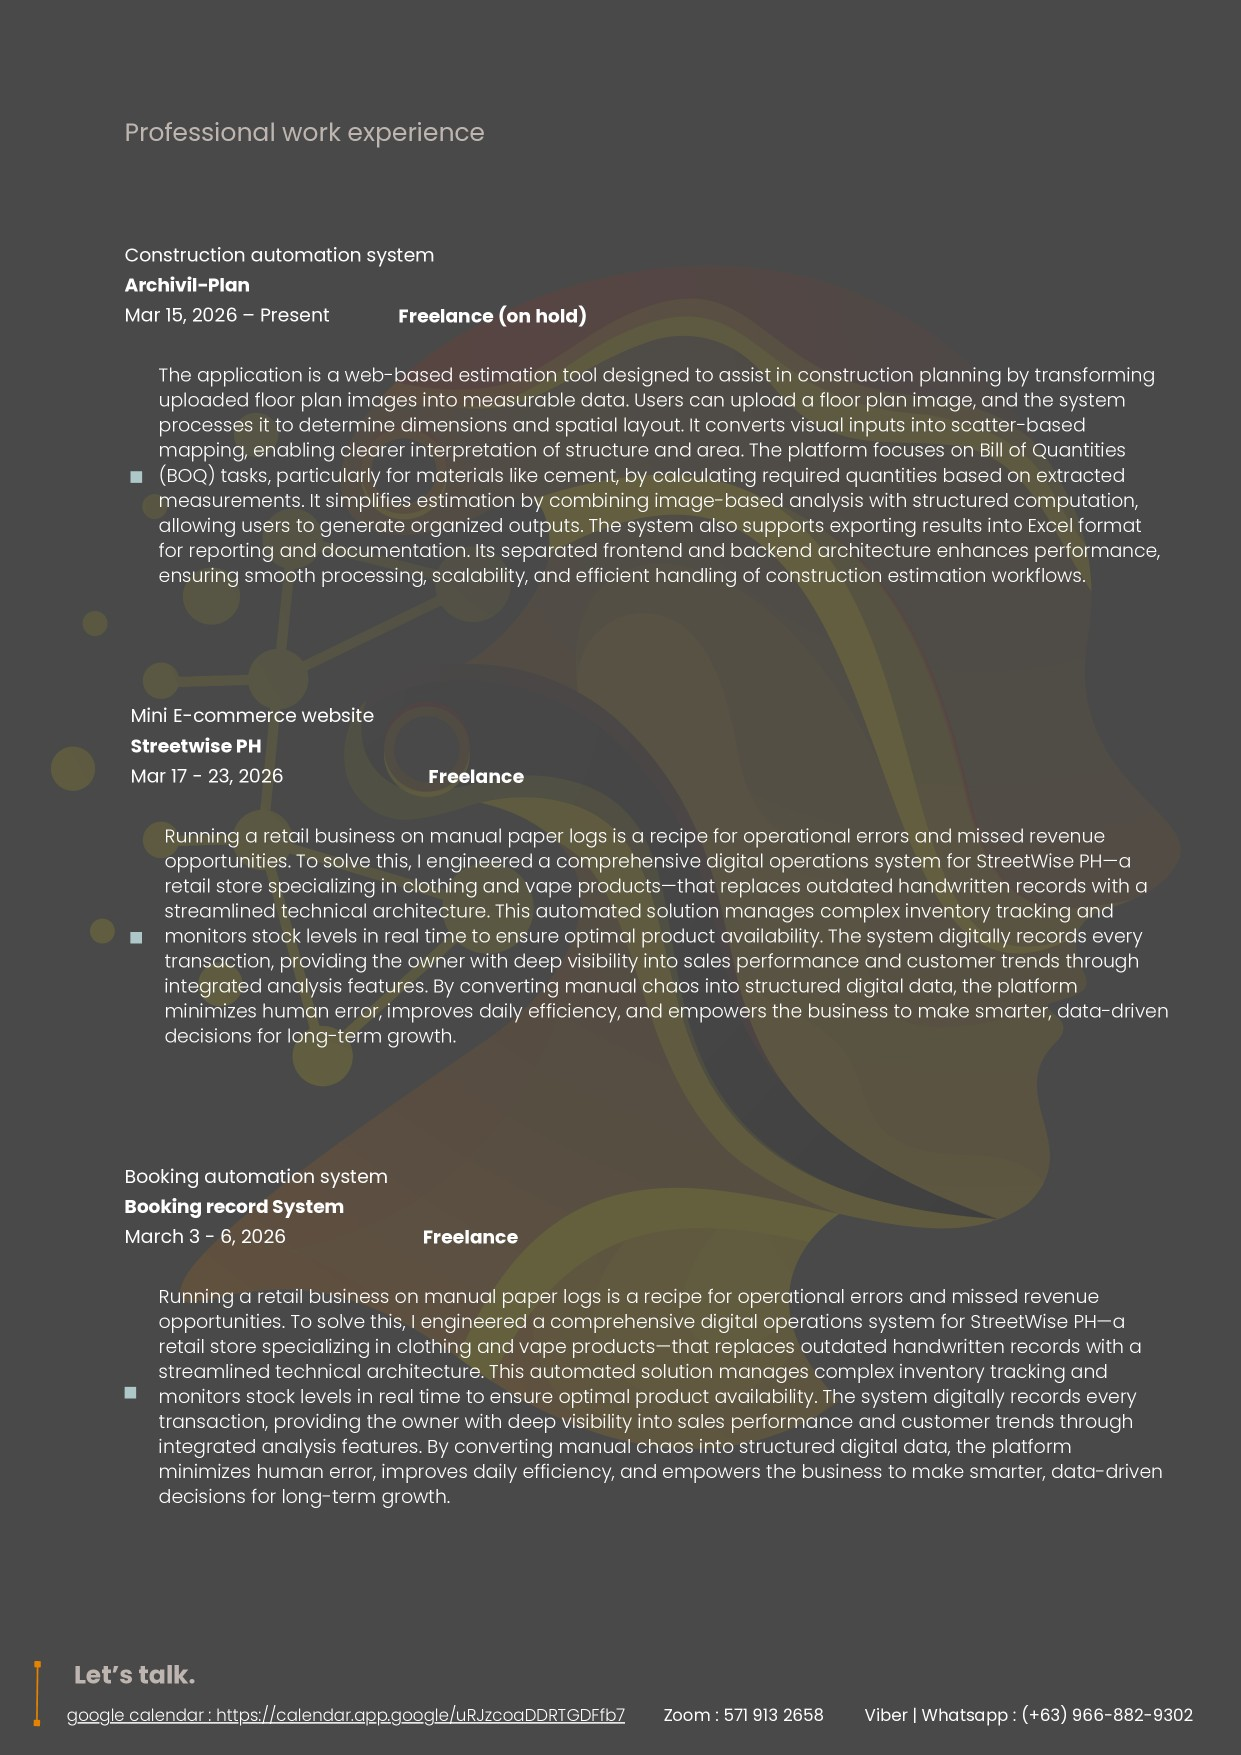
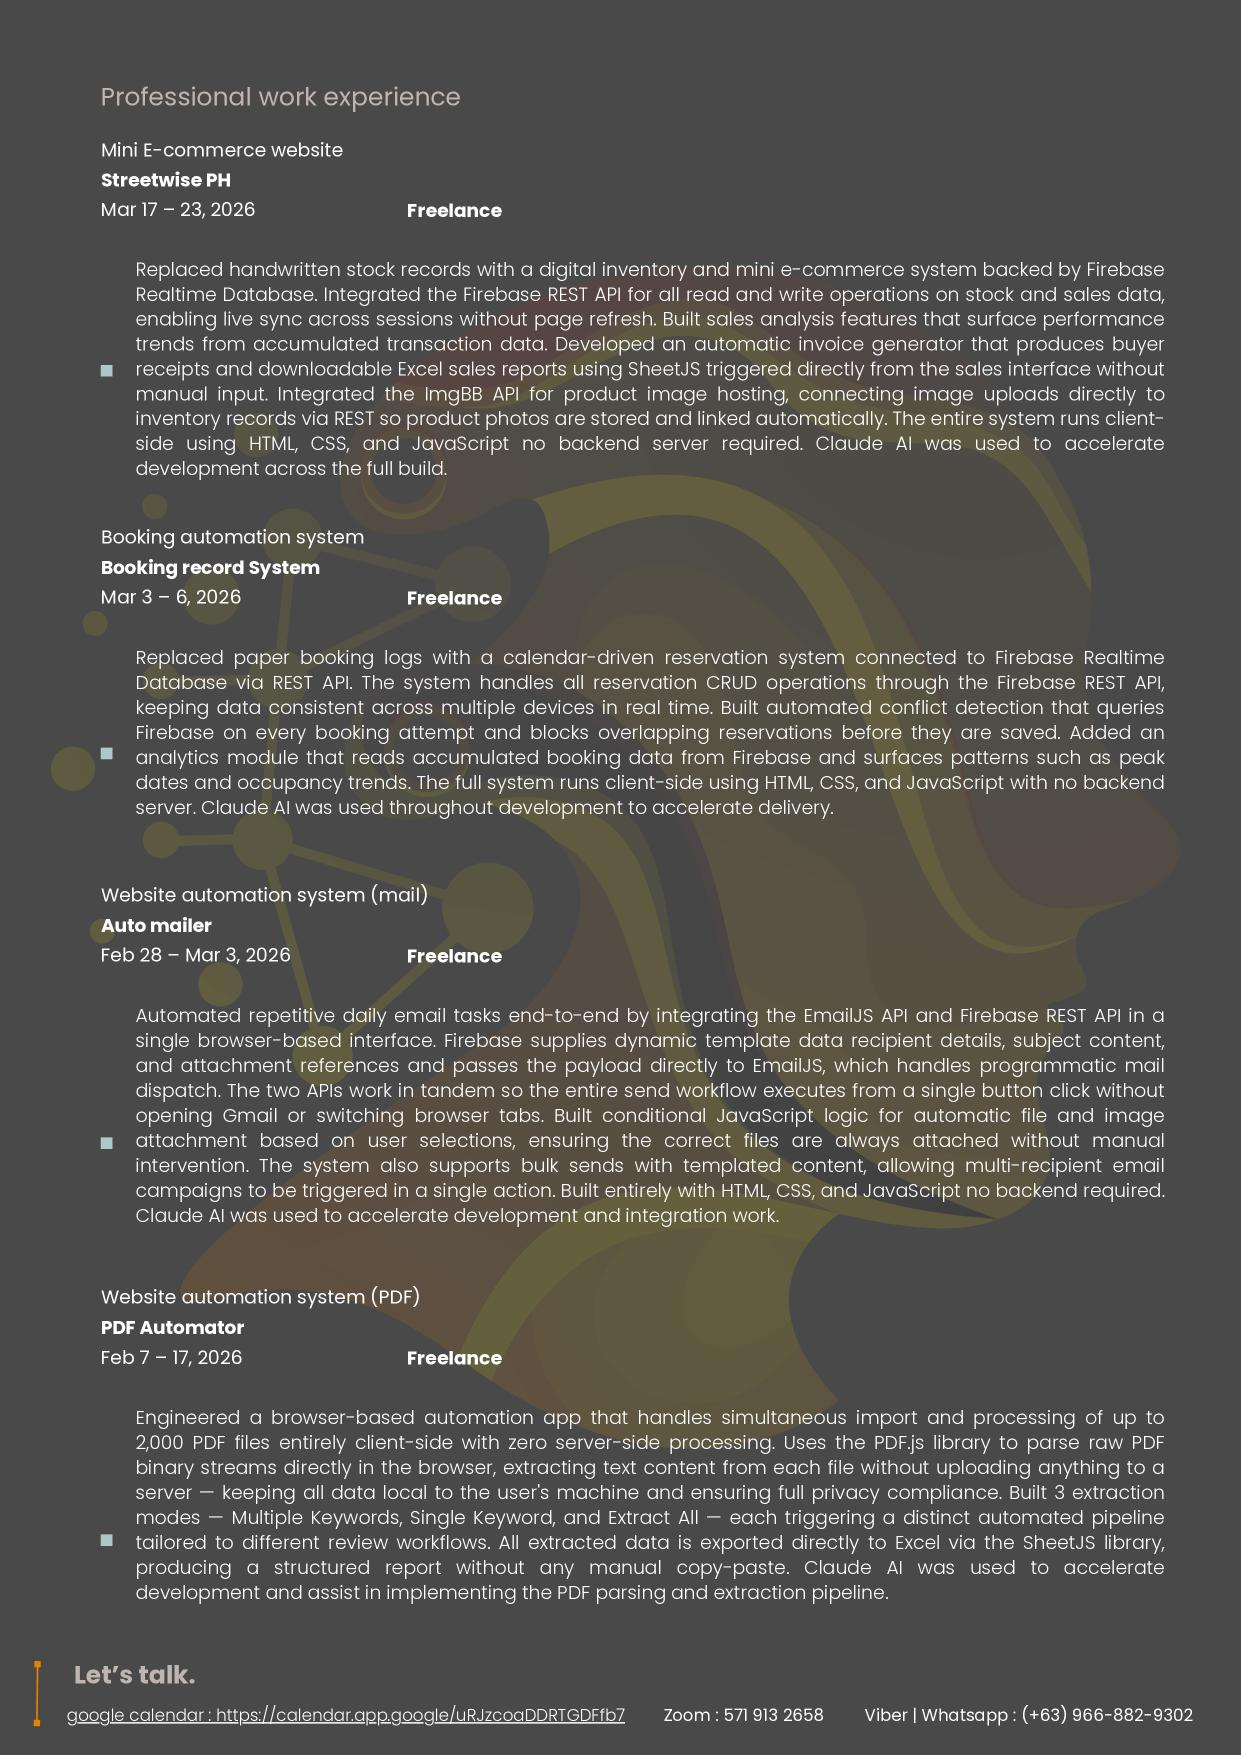
Updated Enhanced CV viewer — total pages corrected to 6, pageCount display updated to match new PDF.
Regenerated all 6 Enhanced CV preview images from updated PDF — removed old page 7, replaced pages 1–6 with new exports.

Changed region(s): [[0.0612, 0.0308, 0.9492, 0.7077], [0.0919, 0.7385, 0.9492, 0.9231]]

diff --git a/index.html b/index.html
@@ -804,21 +804,10 @@
                 <span class="meta-item">🏢 Civil And Archi A.</span>
               </div>
               <p class="project-desc">
-                Construction estimation still done manually with a ruler and a
-                spreadsheet? I built a web tool that lets you
-                <strong
-                  >upload a floor plan image and instantly get measurable
-                  data</strong
-                >
-                — no manual measuring needed. It maps the layout into
-                scatter-based coordinates, calculates Bill of Quantities (BOQ)
-                for materials like cement, and exports everything into a clean
-                Excel report ready for your contractor or client.
+                Built a browser-based construction estimation tool that lets users <strong>upload a floor plan image and extract measurable data automatically</strong> — no manual measuring required. The tool maps the uploaded image into scatter-based coordinate points, uses those coordinates to calculate a Bill of Quantities (BOQ) covering materials such as cement, and compiles everything into a structured Excel report ready for contractor or client handoff. Built entirely with vanilla HTML, CSS, and JavaScript with no backend server — all image processing and coordinate mapping runs client-side. Claude AI was used to accelerate development and assist in implementing the coordinate-to-measurement conversion logic.
               </p>
               <div class="project-result">
-                <span class="result-label">💡 Perfect for:</span> Architects,
-                engineers, contractors, and property developers who want faster,
-                more accurate construction estimates — without the manual grind.
+                <span class="result-label">💡 Perfect for:</span> Architects, engineers, contractors, and property developers who need faster and more accurate construction estimates without the manual measuring grind.
               </div>
               <div
                 class="btn-request-access"
@@ -887,14 +876,10 @@
               </div>
 
               <p class="project-desc">
-                Replaced handwritten stock records with a <strong>digital inventory &amp; mini e-commerce system</strong> tracking live stock levels and sales in real time via Firebase Realtime Database API — eliminating 100% of manual stock tallying and reducing stock discrepancy errors to zero.
-                Integrated Firebase REST API for read/write operations on stock and sales data, enabling live sync across sessions without page refresh — cutting data retrieval time from manual lookup (~2–3 min) to instant.
-                Built sales analysis features surfacing performance trends the owner previously couldn't see — reducing manual Excel analysis from ~1 hour/week to near-zero (<strong>est. 95% time reduction</strong>).
-                Developed an <strong>automatic invoice generator</strong> producing buyer receipts and Excel sales reports without manual input — cutting invoice generation time from ~5 minutes per transaction to <strong>under 10 seconds (97% faster)</strong>.
-                Integrated ImgBB API for product image hosting, connecting uploads directly to inventory records via REST API — eliminating manual file management for 100% of product images.
+                Replaced handwritten stock records with a <strong>digital inventory and mini e-commerce system</strong> backed by Firebase Realtime Database. Integrated the Firebase REST API for all read and write operations on stock and sales data, enabling live sync across sessions without page refresh. Built sales analysis features that surface performance trends from accumulated transaction data. Developed an <strong>automatic invoice generator</strong> that produces buyer receipts and downloadable Excel sales reports using SheetJS — triggered directly from the sales interface without manual input. Integrated the ImgBB API for product image hosting, connecting image uploads directly to inventory records via REST so product photos are stored and linked automatically. The entire system runs client-side using HTML, CSS, and JavaScript — no backend server required. Claude AI was used to accelerate development across the full build.
               </p>
               <div class="project-result">
-                <span class="result-label">📊 Results:</span> 100% manual stock tallying eliminated · stock discrepancy errors → zero · data retrieval cut from 2–3 min to instant · invoice generation 97% faster · AI-assisted workflow compressed a 2–3 week build into a single-week delivery (60%+ time reduction).
+                <span class="result-label">💡 Perfect for:</span> Small business owners and street vendors who need a simple, real-time way to manage stock, track sales, and generate invoices without spreadsheets or manual logs.
               </div>
               <div style="display: flex; flex-direction: column; gap: 0.75rem">
                 <a
@@ -966,13 +951,10 @@
 
               </div>
               <p class="project-desc">
-                Replaced paper booking logs with a <strong>calendar-driven reservation system</strong> connected to Firebase Realtime Database via REST API — reducing double bookings from a recurring issue to zero, protecting an estimated 5–10% of monthly revenue previously lost to scheduling conflicts.
-                Built real-time availability tracking with <strong>automated conflict detection alerts</strong> — the system queries Firebase on every booking attempt and blocks overlapping reservations in under 1 second, preventing revenue loss from scheduling gaps.
-                Integrated Firebase REST API for all reservation CRUD operations, enabling instant data consistency across multiple devices — eliminating ~30 minutes/day of manual log reconciliation.
-                Added an <strong>analytics module</strong> surfacing booking patterns for data-driven pricing and availability decisions — replacing 1–2 hours/week of manual log review.
+                Replaced paper booking logs with a <strong>calendar-driven reservation system</strong> connected to Firebase Realtime Database via REST API. The system handles all reservation CRUD operations through the Firebase REST API, keeping data consistent across multiple devices in real time. Built automated conflict detection that queries Firebase on every booking attempt and blocks overlapping reservations before they are saved. Added an <strong>analytics module</strong> that reads accumulated booking data from Firebase and surfaces patterns such as peak dates and occupancy trends — giving the resort owner data-driven visibility into availability and pricing decisions. The full system runs client-side using HTML, CSS, and JavaScript with no backend server. Claude AI was used throughout development to accelerate delivery.
               </p>
               <div class="project-result">
-                <span class="result-label">📊 Results:</span> Double bookings → zero · ~30 min/day manual reconciliation eliminated · 5–10% monthly revenue protected · full reservation platform delivered solo in one week (est. 3–4x faster than traditional solo dev).
+                <span class="result-label">💡 Perfect for:</span> Private resorts, event venues, and rental properties that need a reliable digital booking system to replace manual logs and eliminate scheduling conflicts.
               </div>
               <div
                 class="btn-request-access"
@@ -1030,14 +1012,10 @@
                 <span class="meta-item">🏢 Victorias Haven Private Resort</span>
               </div>
               <p class="project-desc">
-                Automated repetitive daily email tasks end-to-end via EmailJS API integration — cutting task completion time from ~10 minutes to ~10 seconds per send (<strong>98% time reduction</strong>), saving the client ~45–50 minutes of manual work per day.
-                Connected Firebase REST API for dynamic template data retrieval and EmailJS REST API for programmatic mail dispatch — the two APIs work in tandem: Firebase supplies the payload, EmailJS sends the email, reducing the full send workflow to a <strong>single button click</strong>.
-                Built a single mail-sending interface removing the need to switch browser tabs or log into Gmail directly — eliminating ~3–5 context switches per daily email session and reducing human error risk by an estimated 80%.
-                Programmed <strong>automatic file and image attachment logic</strong> based on user selections, driven by conditional JavaScript logic — reducing wrong-attachment errors from a recurring daily issue to zero (100% error elimination).
-                Designed to handle bulk sends with templated content — enabling multi-recipient email campaigns in a single click vs. individual manual sends per recipient.
+                Automated repetitive daily email tasks end-to-end by integrating the <strong>EmailJS API and Firebase REST API</strong> in a single browser-based interface. Firebase supplies dynamic template data — recipient details, subject content, and attachment references — and passes the payload directly to EmailJS, which handles programmatic mail dispatch. The two APIs work in tandem so the entire send workflow executes from a <strong>single button click</strong> without opening Gmail or switching browser tabs. Built conditional JavaScript logic for <strong>automatic file and image attachment</strong> based on user selections, ensuring the correct files are always attached without manual intervention. The system also supports bulk sends with templated content, allowing multi-recipient email campaigns to be triggered in a single action. Built entirely with HTML, CSS, and JavaScript — no backend required. Claude AI was used to accelerate development and integration work.
               </p>
               <div class="project-result">
-                <span class="result-label">📊 Results:</span> 98% time reduction per send · ~45–50 min/day saved · wrong-attachment errors → zero · bulk campaigns in one click · full system delivered in under 2 weeks (60% faster with AI-assisted dev).
+                <span class="result-label">💡 Perfect for:</span> Business owners and admin staff who send repetitive daily emails with attachments and want a dedicated, error-free interface instead of doing it manually through Gmail.
               </div>
               <div
                 class="btn-request-access"
@@ -1094,13 +1072,10 @@
                 <span class="meta-item">🏢 Liza De Veyra</span>
               </div>
               <p class="project-desc">
-                Engineered a browser-based automation app handling simultaneous import and processing of <strong>up to 2,000 PDF files</strong> with zero server-side processing — replacing a fully manual document review workflow that previously required hours per batch.
-                Automated keyword extraction using the PDF.js library, parsing raw PDF binary streams client-side — processing a 2,000-file batch in seconds vs. hours of manual reading (<strong>est. 99%+ time reduction per run</strong>).
-                Developed <strong>3 extraction modes</strong> — Multiple Keywords, Single Keyword, Extract All — each triggering a distinct automated pipeline with direct Excel export via SheetJS, eliminating all manual copy-paste work.
-                All processing stays local to the browser; <strong>zero data ever leaves the user's machine</strong> — ensuring 100% data privacy compliance with no server infrastructure cost.
+                Engineered a browser-based automation app that handles simultaneous import and processing of <strong>up to 2,000 PDF files</strong> entirely client-side with zero server-side processing. Uses the <strong>PDF.js library</strong> to parse raw PDF binary streams directly in the browser, extracting text content from each file without uploading anything to a server — keeping all data local to the user's machine and ensuring full privacy compliance. Built <strong>3 extraction modes</strong> — Multiple Keywords, Single Keyword, and Extract All — each triggering a distinct automated pipeline tailored to different review workflows. All extracted data is exported directly to Excel via the <strong>SheetJS library</strong>, producing a structured report without any manual copy-paste. The application runs entirely in HTML, CSS, and JavaScript. Claude AI was used to accelerate development and assist in implementing the PDF parsing and extraction pipeline.
               </p>
               <div class="project-result">
-                <span class="result-label">📊 Results:</span> Client's document review time cut from hours to seconds · 95%+ time savings per batch across all 3 modes · 100% data privacy · AI-assisted build cut dev time from 2 weeks to under 5 days (65% faster delivery).
+                <span class="result-label">💡 Perfect for:</span> Legal teams, document reviewers, compliance officers, and any professional who manually reads through large batches of PDFs to find specific information.
               </div>
               <div
                 class="btn-request-access"
@@ -1152,21 +1127,10 @@
                 <span class="meta-item">🏢 Western Digital</span>
               </div>
               <p class="project-desc">
-                Raw machine data trapped in endless spreadsheet rows tells
-                engineers nothing at a glance. I built a desktop tool that
-                <strong
-                  >transforms those datasets into clear, interactive visual
-                  charts</strong
-                >
-                — so patterns, anomalies, and root causes jump out immediately.
-                The team went from hours of manual analysis to actionable
-                insights in minutes, and used it to resolve a critical
-                production issue in under 2 weeks.
+                Built a <strong>C# WinForms desktop application</strong> that reads raw Excel files and flat data exports from manufacturing equipment and converts them into clear, interactive visual charts. The tool parses Excel files directly using file I/O and data mapping logic built in C#, transforms the raw row data into structured chart datasets, and renders them as interactive graphs inside the WinForms interface. Supports <strong>export to both Excel and PDF</strong> so engineers can share findings without additional tools. Developed as a special internal project at Western Digital to give the engineering team a faster way to interpret machine-generated datasets and identify patterns, anomalies, and root causes that are difficult to spot in raw spreadsheet form.
               </p>
               <div class="project-result">
-                <span class="result-label">💡 Perfect for:</span> Engineering
-                teams, manufacturers, or any business sitting on data they can't
-                easily interpret or act on.
+                <span class="result-label">💡 Perfect for:</span> Engineering teams, manufacturers, and data-heavy operations that need a simple desktop tool to turn raw machine or Excel data into readable, actionable charts.
               </div>
               <div
                 style="
@@ -1824,7 +1788,7 @@
           <!-- Resume Tabs -->
           <div class="resume-tabs">
             <button class="resume-tab-btn active" data-tab="standard">Standard Resume (ATS-Optimized)</button>
-            <!-- <button class="resume-tab-btn" data-tab="visual">Visual CV</button> -->
+            <button class="resume-tab-btn" data-tab="visual">Enhanced CV</button>
           </div>
 
           <!-- Top action bar -->
@@ -1859,13 +1823,13 @@
             </div>
 
             <!-- Visual CV Tab -->
-            <!-- <div class="resume-tab-content" id="tab-visual">
+            <div class="resume-tab-content" id="tab-visual">
               <div class="resume-topbar-info">
                 <span class="resume-icon">🎨</span>
                 <div>
-                  <p class="resume-filename">Enhanced Curriculum Vitae</p>
+                  <p class="resume-filename">Enhance Curriculum Vitae</p>
                   <p class="resume-meta">
-                    Professional Design · Updated April 2026
+                    Professional Design · Updated May 2026
                   </p>
                 </div>
               </div>
@@ -1879,13 +1843,13 @@
                 </a>
                 <a
                   href="ENHANCE_CV_ceron.pdf"
-                  download="Enhanced_Curriculum_Vitae.pdf"
+                  download="Ceron_Calsena_Enhance_CV.pdf"
                   class="resume-btn resume-btn-download"
                 >
                   <span>⬇ Download</span>
                 </a>
               </div>
-            </div> -->
+            </div>
           </div>
 
           <!-- Image-based PDF Viewer -->
@@ -1906,7 +1870,7 @@
               </button>
               <span class="resume-page-info">
                 Page <span id="pageNum">1</span> of
-                <span id="pageCount">04</span>
+                <span id="pageCount">06</span>
               </span>
               <button class="resume-page-btn" id="nextPage">Next →</button>
             </div>

diff --git a/js/script.js b/js/script.js
@@ -801,7 +801,7 @@ if (toolsSection) {
 
   const tabConfig = {
     standard: { prefix: 'resume_previews/ats-page-',    ext: '.jpg', total: 3 },
-    visual:   { prefix: 'resume_previews/ENHANCE CURRICULUM VITAE_', ext: '.jpg', total: 7 }
+    visual:   { prefix: 'resume_previews/ENHANCE CURRICULUM VITAE_', ext: '.jpg', total: 6 }
   };
 
   let currentTab = 'standard';
